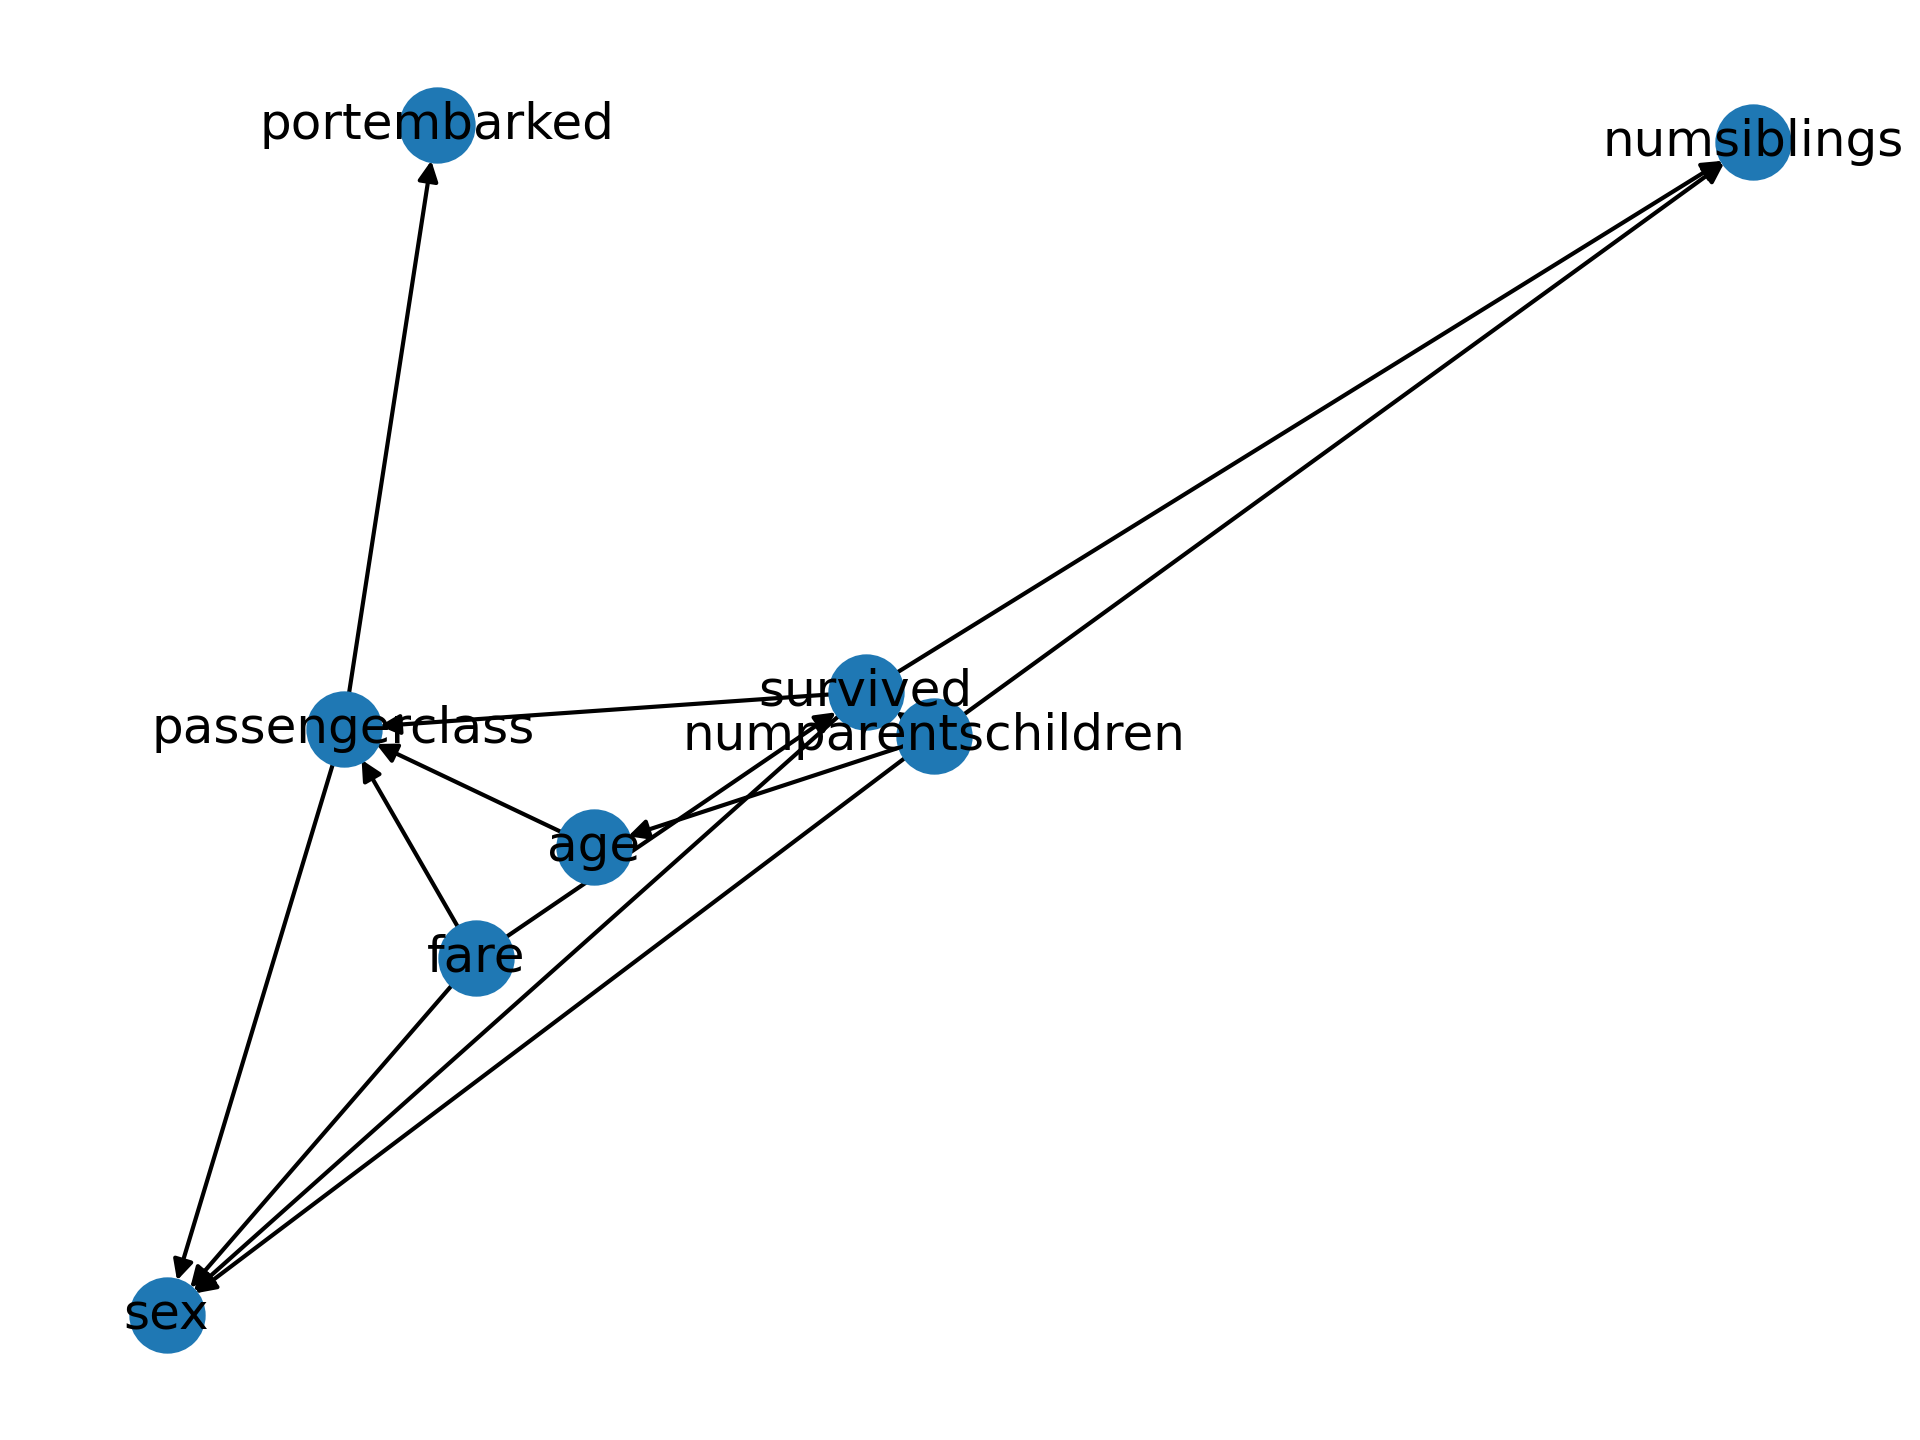
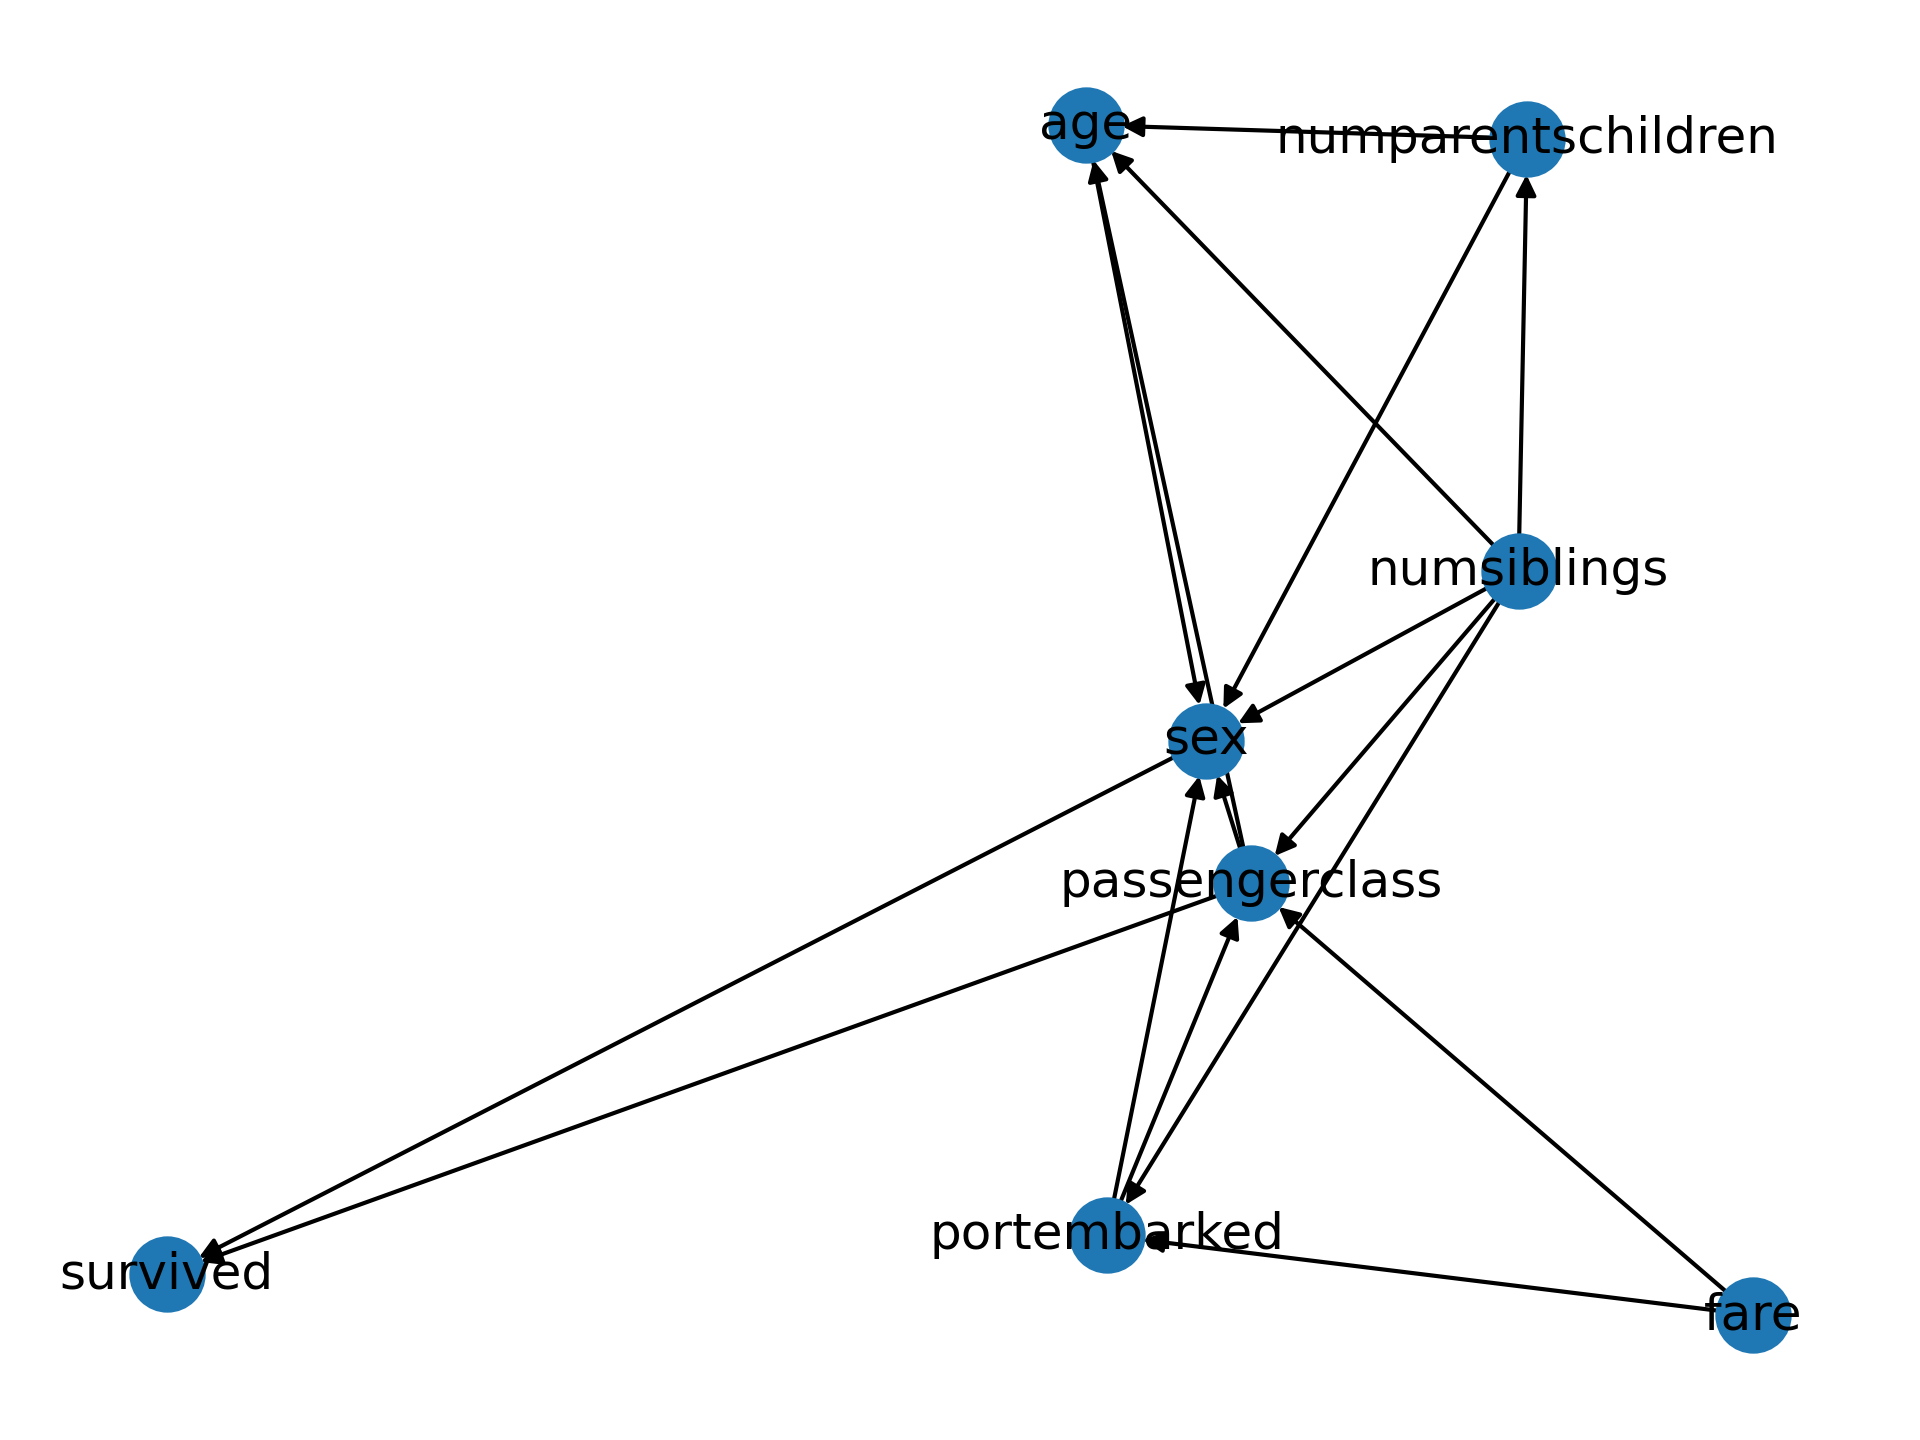
small complete

diff --git a/project1/bayesian_network.py b/project1/bayesian_network.py
@@ -9,7 +9,7 @@ import matplotlib.pyplot as plt
 
 
 # GLOBAL VARIABLES
-BAYESIAN_ITERATIONS = 30
+BAYESIAN_ITERATIONS = 100
 
 
 def process_data(dir):
@@ -96,7 +96,7 @@ def find_bayesian_network(vars_info, D):
         while True:
             best_score, best_node = float('-inf'), 0
             for v in var_names[:i]:
-                if not G.has_edge(v, u) and len(list(G.predecessors(u))) <= 5: # Cut down the number of parents
+                if not G.has_edge(v, u) and len(list(G.predecessors(u))) <= 8: # Cut down the number of parents
                     G.add_edge(v, u)
                     curr_score = bayesian_score(vars_info, G, D)
                     if curr_score > best_score:
